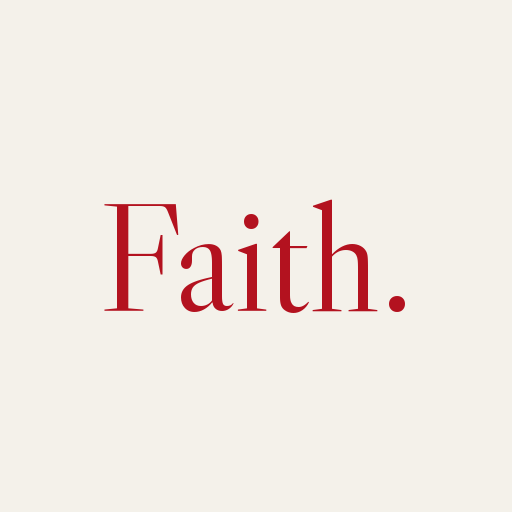
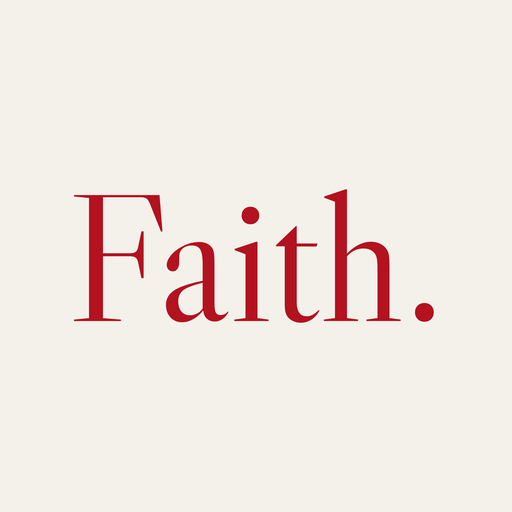
Faith. ve Grind.: düz yazı logolar (Libre Caslon Display), ikonu dolduran ana ekran simgeleri
Claude-Session: https://claude.ai/code/session_01HRkPxbTmZ33Pz62knrkz1D

Changed region(s): [[0.1562, 0.375, 0.8438, 0.6562]]

diff --git a/faith/index.html b/faith/index.html
@@ -9,9 +9,9 @@
 <meta name="mobile-web-app-capable" content="yes">
 <meta name="apple-mobile-web-app-title" content="Faith.">
 <meta name="apple-mobile-web-app-status-bar-style" content="default">
-<link rel="manifest" href="/faith/manifest.json">
-<link rel="apple-touch-icon" href="/faith/apple-touch-icon.png">
-<link rel="icon" type="image/png" href="/faith/icon-192.png">
+<link rel="manifest" href="/faith/manifest.json?v=2">
+<link rel="apple-touch-icon" href="/faith/apple-touch-icon.png?v=2">
+<link rel="icon" type="image/png" href="/faith/icon-192.png?v=2">
 <title>Faith. — Namaz takibi</title>
 <link rel="preconnect" href="https://fonts.googleapis.com">
 <link href="https://fonts.googleapis.com/css2?family=Libre+Caslon+Display&family=Geist:wght@300;400;500&display=swap" rel="stylesheet">
@@ -29,7 +29,7 @@ button,input,select,textarea{font:inherit;color:inherit}
 button{cursor:pointer;user-select:none;-webkit-user-select:none;touch-action:manipulation}
 .app{max-width:520px;margin:0 auto;padding:calc(22px + env(safe-area-inset-top)) 22px 110px;display:flex;flex-direction:column;gap:18px}
 .top{display:flex;justify-content:space-between;align-items:center}
-.logo{font-family:'Libre Caslon Display',Georgia,serif;font-size:34px;letter-spacing:.04em;line-height:1;color:var(--brand)}
+.logo{font-family:'Libre Caslon Display',Georgia,serif;font-size:38px;letter-spacing:.01em;line-height:1;color:var(--brand)}
 .muted{color:var(--ink3);font-size:13px}
 .card{background:var(--card);border:1px solid var(--line);border-radius:16px;padding:20px;display:flex;flex-direction:column;gap:8px}
 h1,h2{font-weight:300;letter-spacing:-.02em;margin:0}
@@ -163,7 +163,7 @@ button:focus:not(:focus-visible),a:focus:not(:focus-visible){outline:none}
 </head>
 <body>
 <div class="app">
-<div class="top"><span class="logo">FAITH.</span><span class="muted" id="dateCity"></span></div>
+<div class="top"><span class="logo">Faith.</span><span class="muted" id="dateCity"></span></div>
 
 <section id="v-bugun">
 <div class="banner" id="acctBanner" hidden><div class="grow"><span class="pv" style="font-size:14px">Kayıtların yalnızca bu cihazda</span><span class="nt">Hesabına bağlanınca her şey sunucuda saklanır.</span></div><a class="btn" href="#ayarlar" style="min-height:40px;font-size:13px;display:inline-flex;align-items:center;text-decoration:none">Bağlan</a></div>

diff --git a/grind/index.html b/grind/index.html
@@ -11,9 +11,9 @@
 <meta name="mobile-web-app-capable" content="yes">
 <meta name="apple-mobile-web-app-title" content="Grind.">
 <meta name="apple-mobile-web-app-status-bar-style" content="default">
-<link rel="manifest" href="/grind/manifest.json">
-<link rel="apple-touch-icon" href="/grind/apple-touch-icon.png">
-<link rel="icon" type="image/png" href="/grind/icon-192.png">
+<link rel="manifest" href="/grind/manifest.json?v=2">
+<link rel="apple-touch-icon" href="/grind/apple-touch-icon.png?v=2">
+<link rel="icon" type="image/png" href="/grind/icon-192.png?v=2">
 
 <link rel="preconnect" href="https://fonts.googleapis.com">
 <link rel="preconnect" href="https://fonts.gstatic.com" crossorigin>
